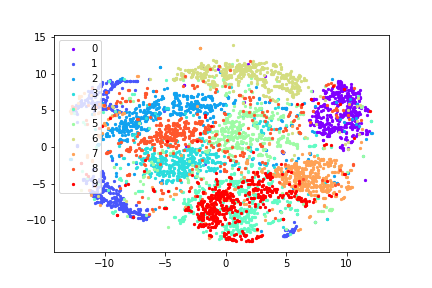
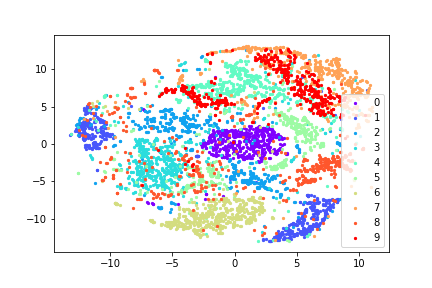
update 1.1

diff --git a/Model/util.py b/Model/util.py
@@ -1,24 +1,12 @@
-#! -*- coding:utf-8 -*-
-
 import os
 import sys
-
 import tensorflow as tf
 import numpy as np
-from math import *
 
 
-def xavier_init(fan_in, fan_out, constant=1): 
-    """ Xavier initialization of network weights"""
-    # https://stackoverflow.com/questions/33640581/how-to-do-xavier-initialization-on-tensorflow
-    low = -constant*np.sqrt(6.0/(fan_in + fan_out)) 
-    high = constant*np.sqrt(6.0/(fan_in + fan_out))
-    
-    return tf.random_uniform((fan_in, fan_out), minval=low, maxval=high, dtype=tf.float32)
-
-def get_weights(name, shape, stddev, trainable=True):
+def get_weights(name, shape, trainable=True):
     return tf.get_variable('weights{}'.format(name), shape,
-                           initializer=tf.random_normal_initializer(stddev=stddev),
+                           initializer=tf.contrib.layers.xavier_initializer(),
                            trainable=trainable)
 
 def get_biases(name, shape, value, trainable=True):
@@ -36,17 +24,14 @@ def get_dim(target):
     return dim
 
 def linear_layer(x, in_dim, out_dim, l_id):
-    weights = tf.get_variable(str(l_id), shape=[in_dim, out_dim], trainable=True,
-                              initializer=tf.contrib.layers.xavier_initializer())
+    weights = get_weights(l_id, [in_dim, out_dim])
     biases  = get_biases(l_id, [out_dim], .0)
     return tf.matmul(x, weights) + biases
 
 def conv_layer(inputs, out_num, filter_width, filter_hight, stride, l_id):
-    
     # ** NOTICE: weight shape is [hight, width, in_chanel, out_chanel] **
     weights = get_weights(l_id,
-                          [filter_hight, filter_width, inputs.get_shape()[-1], out_num],
-                          0.02)
+                          [filter_hight, filter_width, inputs.get_shape()[-1], out_num])
     
     biases = get_biases(l_id, [out_num], 0.0)
     
@@ -61,8 +46,7 @@ def deconv_layer(inputs, out_shape, filter_width, filter_hight, stride, l_id):
     
     # ** NOTICE: weight shape is [hight, width, out_chanel, in_chanel] **
     weights = get_weights(l_id,
-                          [filter_hight, filter_width, out_shape[-1], inputs.get_shape()[-1]],
-                          0.02)
+                          [filter_hight, filter_width, out_shape[-1], inputs.get_shape()[-1]])
     
     biases = get_biases(l_id, [out_shape[-1]], 0.0)
     

diff --git a/Model/discriminator.py b/Model/discriminator.py
@@ -10,12 +10,7 @@ class Discriminator(object):
         self.name_scope = 'discriminator'
         
     def get_variables(self):
-        t_var = tf.trainable_variables()
-        ret = []
-        for var in t_var:
-            if self.name_scope in var.name:
-                ret.append(var)
-        return ret
+        return tf.get_collection(tf.GraphKeys.TRAINABLE_VARIABLES, scope=self.name_scope)
     
     def __call__(self, x, is_training, reuse):
         # return only logits

diff --git a/Model/encoder.py b/Model/encoder.py
@@ -10,12 +10,7 @@ class Encoder(object):
         self.name_scope = 'encoder'
   
     def get_variables(self):
-        t_var = tf.trainable_variables()
-        ret = []
-        for var in t_var:
-            if self.name_scope in var.name:
-                ret.append(var)
-        return ret
+        return tf.get_collection(tf.GraphKeys.TRAINABLE_VARIABLES, scope=self.name_scope)
     
     def __call__(self, x, is_training, reuse):        
         h = x     

diff --git a/Model/decoder.py b/Model/decoder.py
@@ -10,12 +10,7 @@ class Decoder(object):
         self.name_scope = 'decoder'
 
     def get_variables(self):
-        t_var = tf.trainable_variables()
-        ret = []
-        for var in t_var:
-            if self.name_scope in var.name:
-                ret.append(var)
-        return ret
+       return tf.get_collection(tf.GraphKeys.TRAINABLE_VARIABLES, scope=self.name_scope)
     
     def __call__(self, x, is_training, reuse):
         h = x

diff --git a/main.py b/main.py
@@ -12,7 +12,7 @@ if __name__ == '__main__':
 
     # parameter
     batch_size = 200
-    epoch_num = 500
+    epoch_num = 300
     z_dim = 100
 
     save_path = os.getcwd() + '/Save_' + str(z_dim) 
